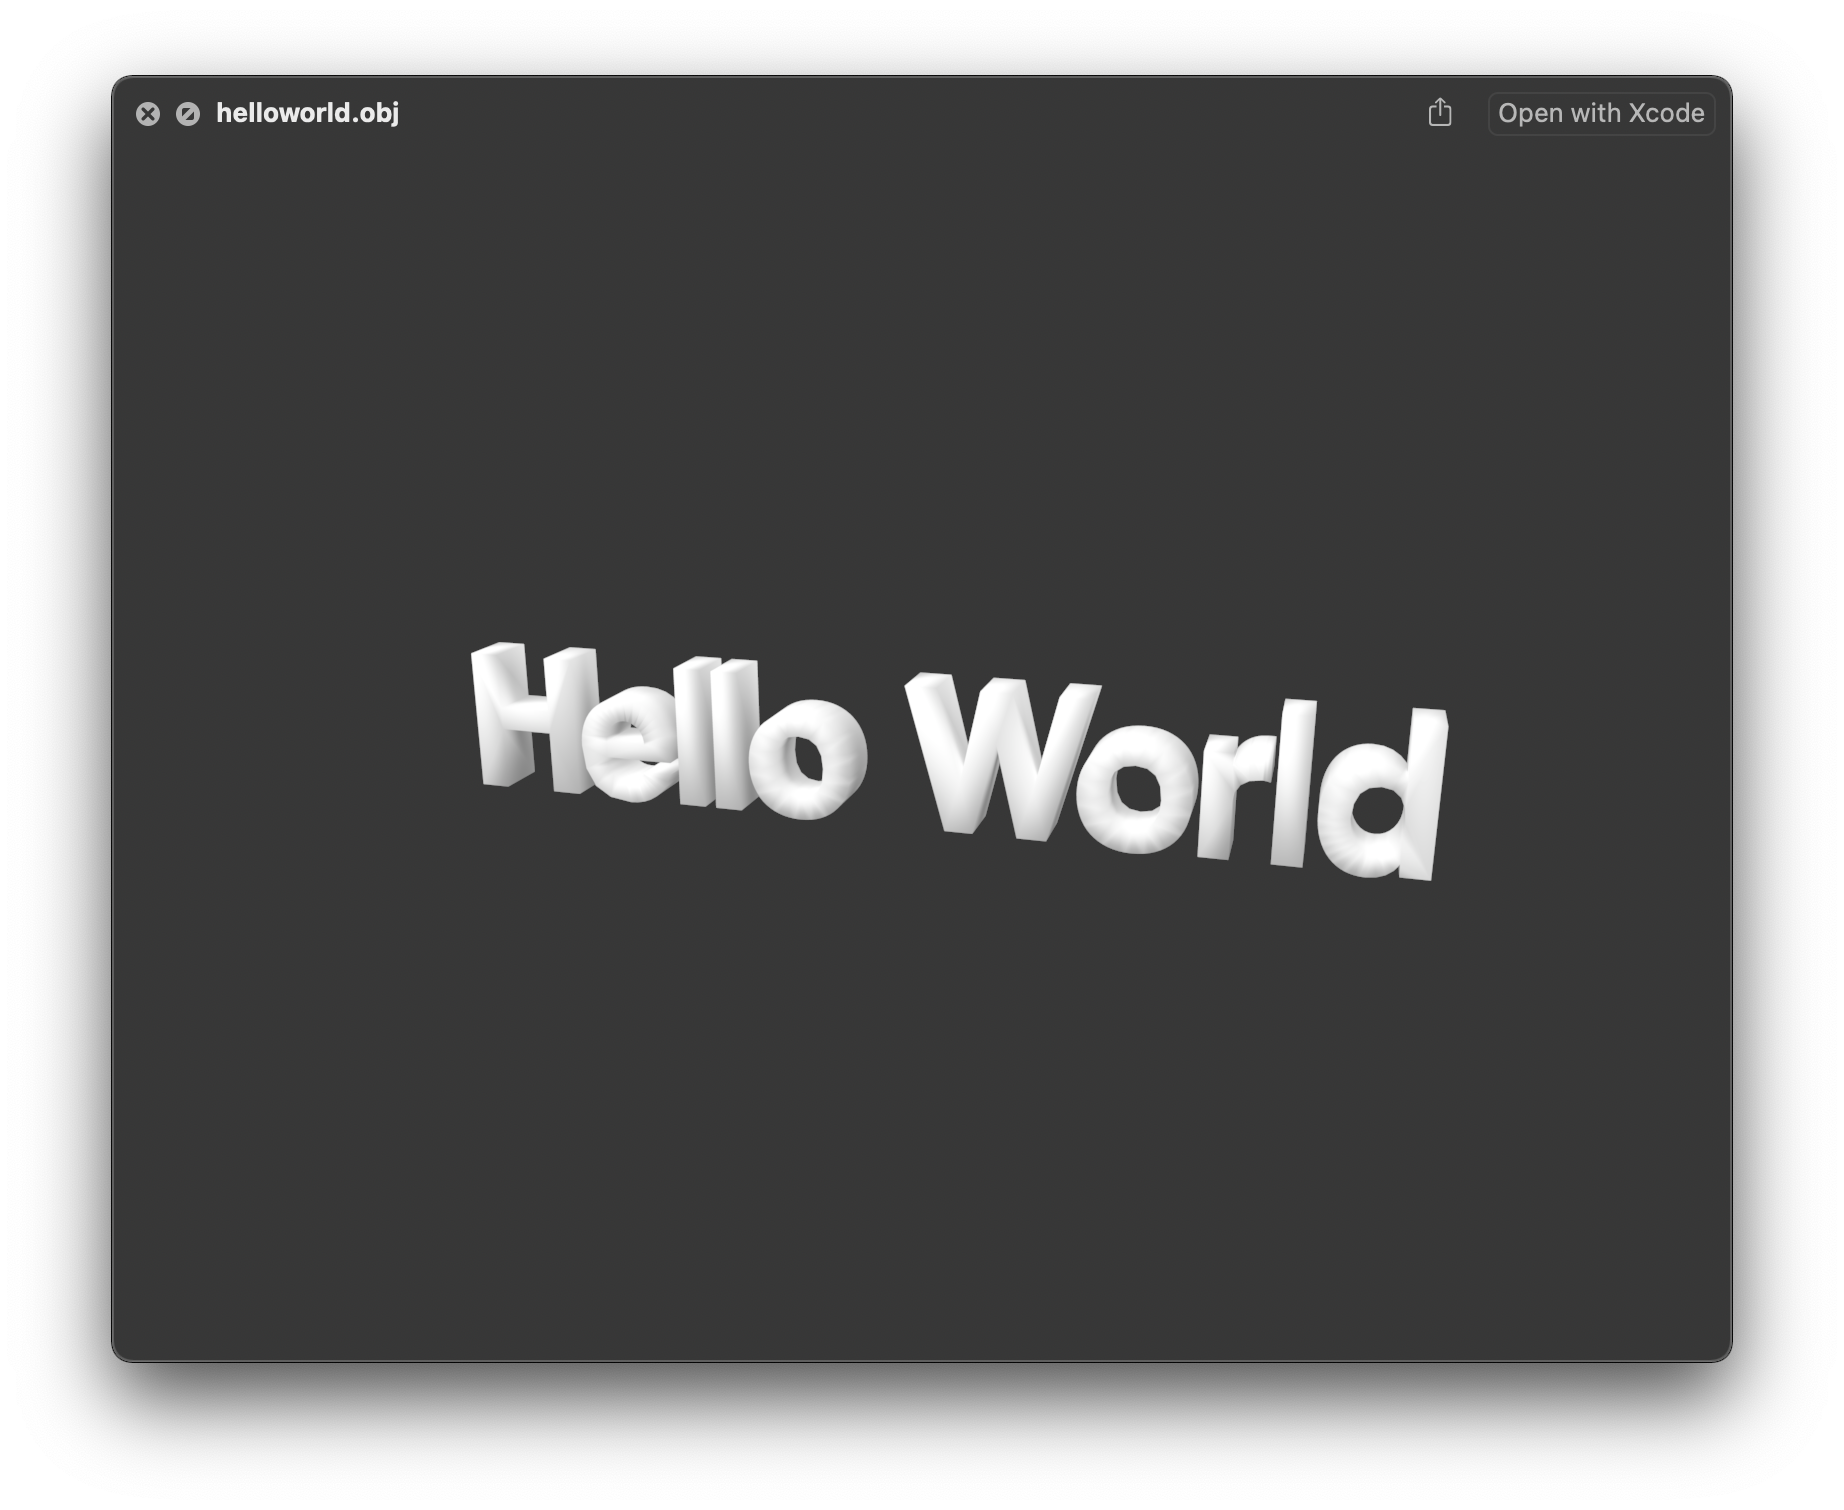
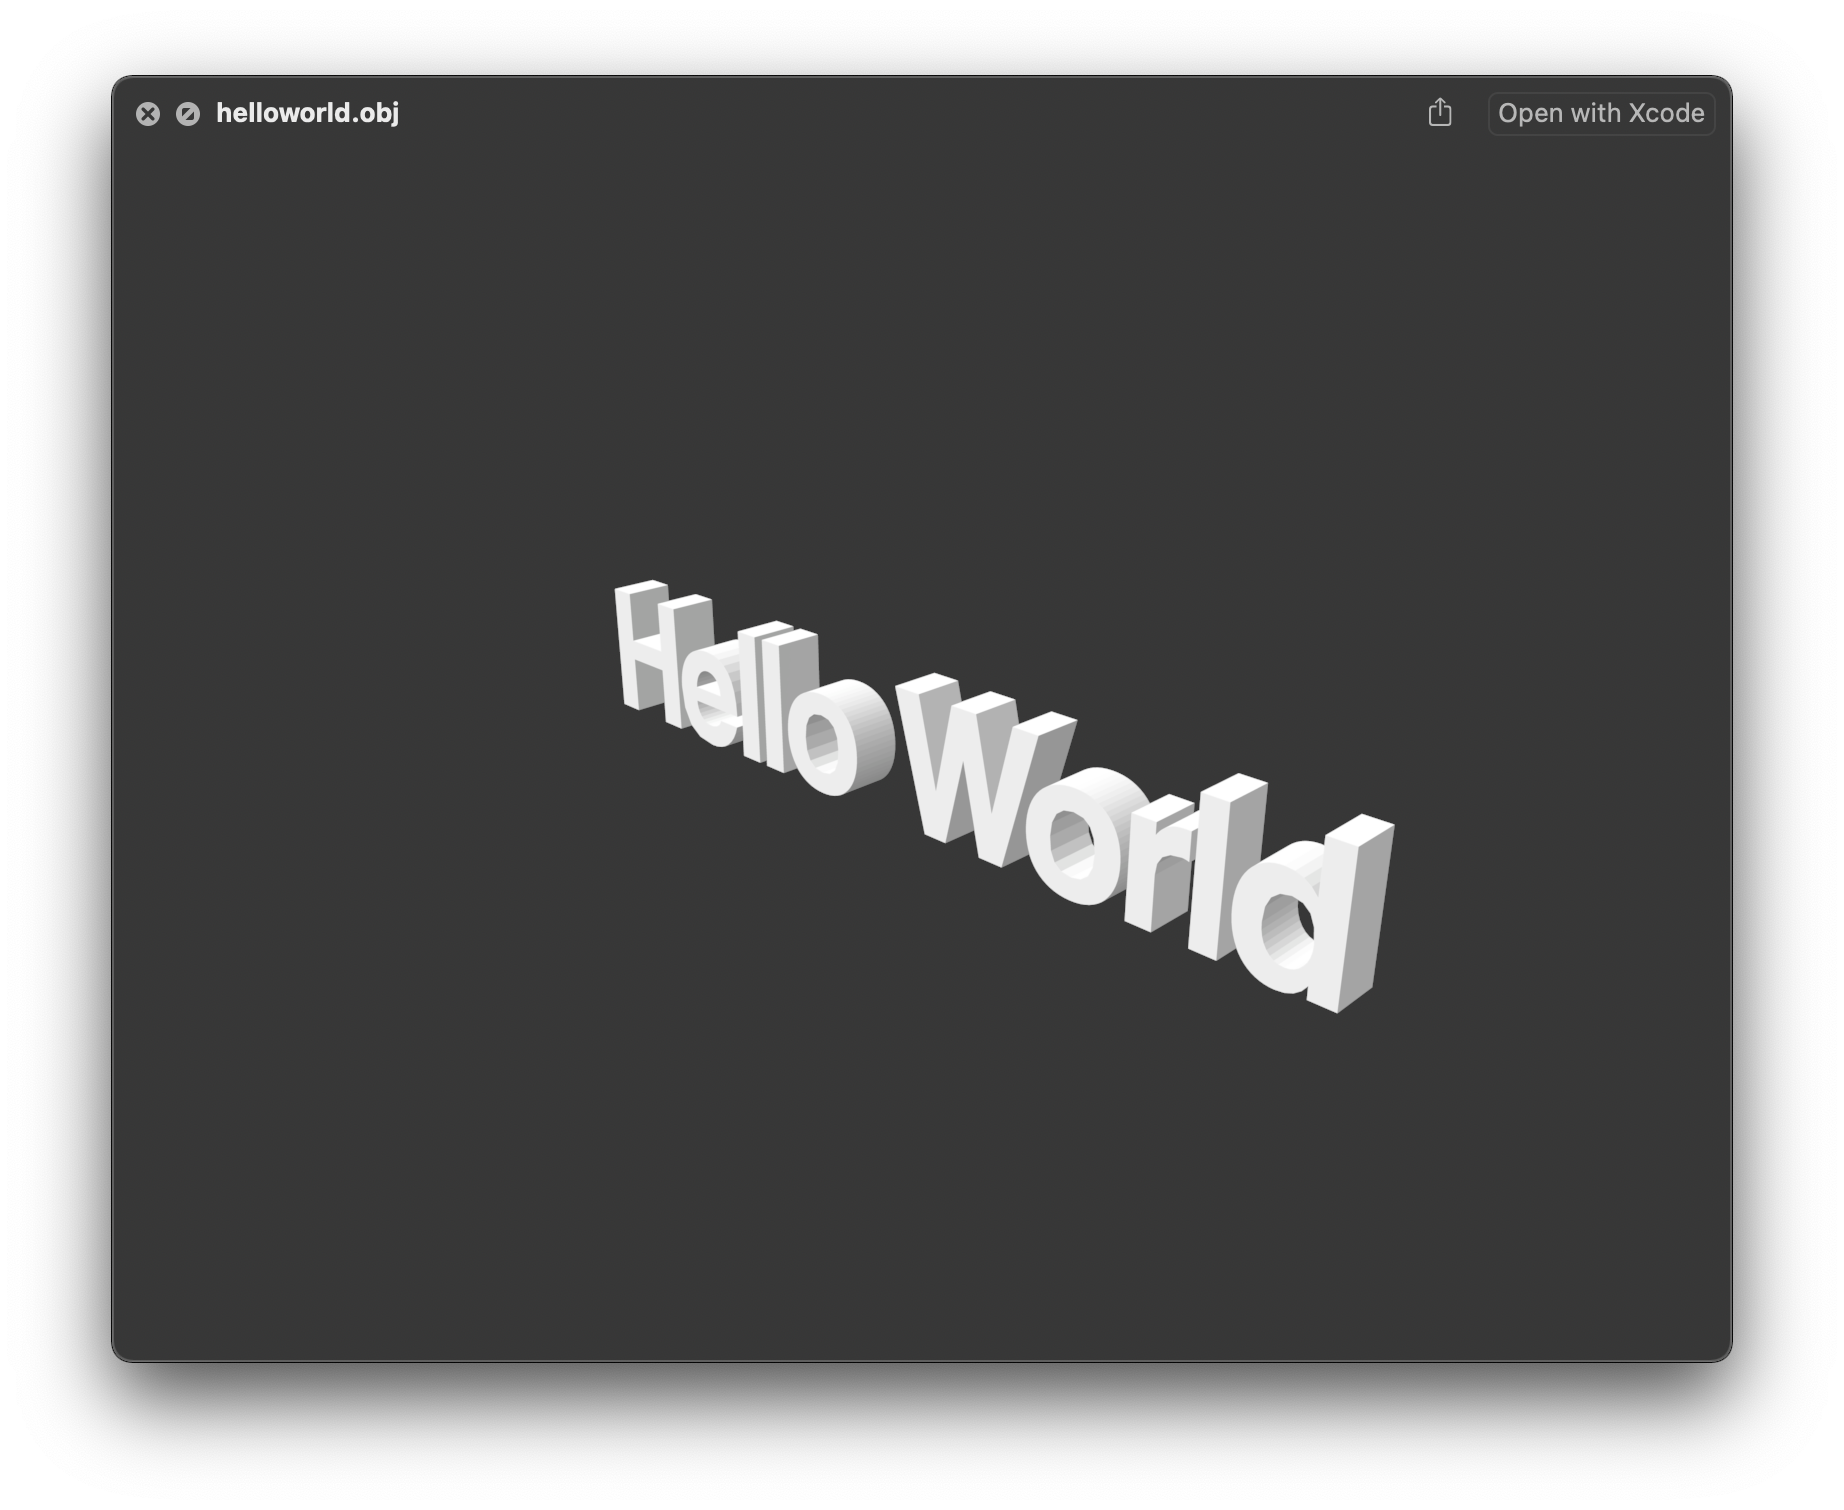
Fixed face normal calculation

Changed region(s): [[0.2473, 0.3735, 0.8037, 0.6848]]

diff --git a/mesh.h b/mesh.h
@@ -3,16 +3,38 @@
 
 struct Vertex {
 	float x, y, z;
+    float nx, ny, nz;
 
     bool operator==(const Vertex& other) const {
-        return x == other.x && y == other.y && z == other.z;
+        return x == other.x && y == other.y && z == other.z &&
+                nx == other.nx && ny == other.ny && nz == other.nz;
+    }
+
+    Vertex operator-(const Vertex& b) const {
+        Vertex r;
+        r.x = x - b.x;
+        r.y = y - b.y;
+        r.z = z - b.z;
+        return r;
+    }
+
+    void computeNormal(Vertex a, Vertex b, Vertex c) {
+        Vertex e1 = b - a;
+        Vertex e2 = c - a;
+        nx = e1.y * e2.z - e1.z * e2.y;
+        ny = e1.z * e2.x - e1.x * e2.z;
+        nz = e1.x * e2.y - e1.y * e2.x;
+
+        double norm = sqrt(nx*nx + ny*ny + nz*nz);
+        nx /= norm;
+        ny /= norm;
+        nz /= norm;
     }
 };
 
 struct Mesh {
     std::vector<Vertex> vertices;
     std::vector<int> indices;
-    int indexCount = 0;
 
     int addVertex(Vertex v) {
         std::vector<Vertex>::iterator itr = std::find(vertices.begin(), vertices.end(), v);
@@ -29,6 +51,11 @@ struct Mesh {
     }
 
     void addTriangle(Vertex a, Vertex b, Vertex c) {
+        a.computeNormal(a, b, c);
+        c.nx = b.nx = a.nx; 
+        c.ny = b.ny = a.ny; 
+        c.nz = b.nz = a.nz;
+
         indices.push_back(addVertex(c));
         indices.push_back(addVertex(b));
         indices.push_back(addVertex(a));

diff --git a/README.md b/README.md
@@ -16,7 +16,7 @@ sh compile.sh
 ## Sample Outputs
 Below outputs are generated using different fonts
 ![Screenshot Font23D with Coolveticarg Font](screenshots/coolveticarg.png)
-![Screenshot Font23D with HP Font](screenshots/hp-font.png)
+![Screenshot Font23D with HP Font](screenshots/hp.png)
 ![Screenshot Font23D with Hursheys Font](screenshots/hursheys.png)
 
 Instruction to use:
